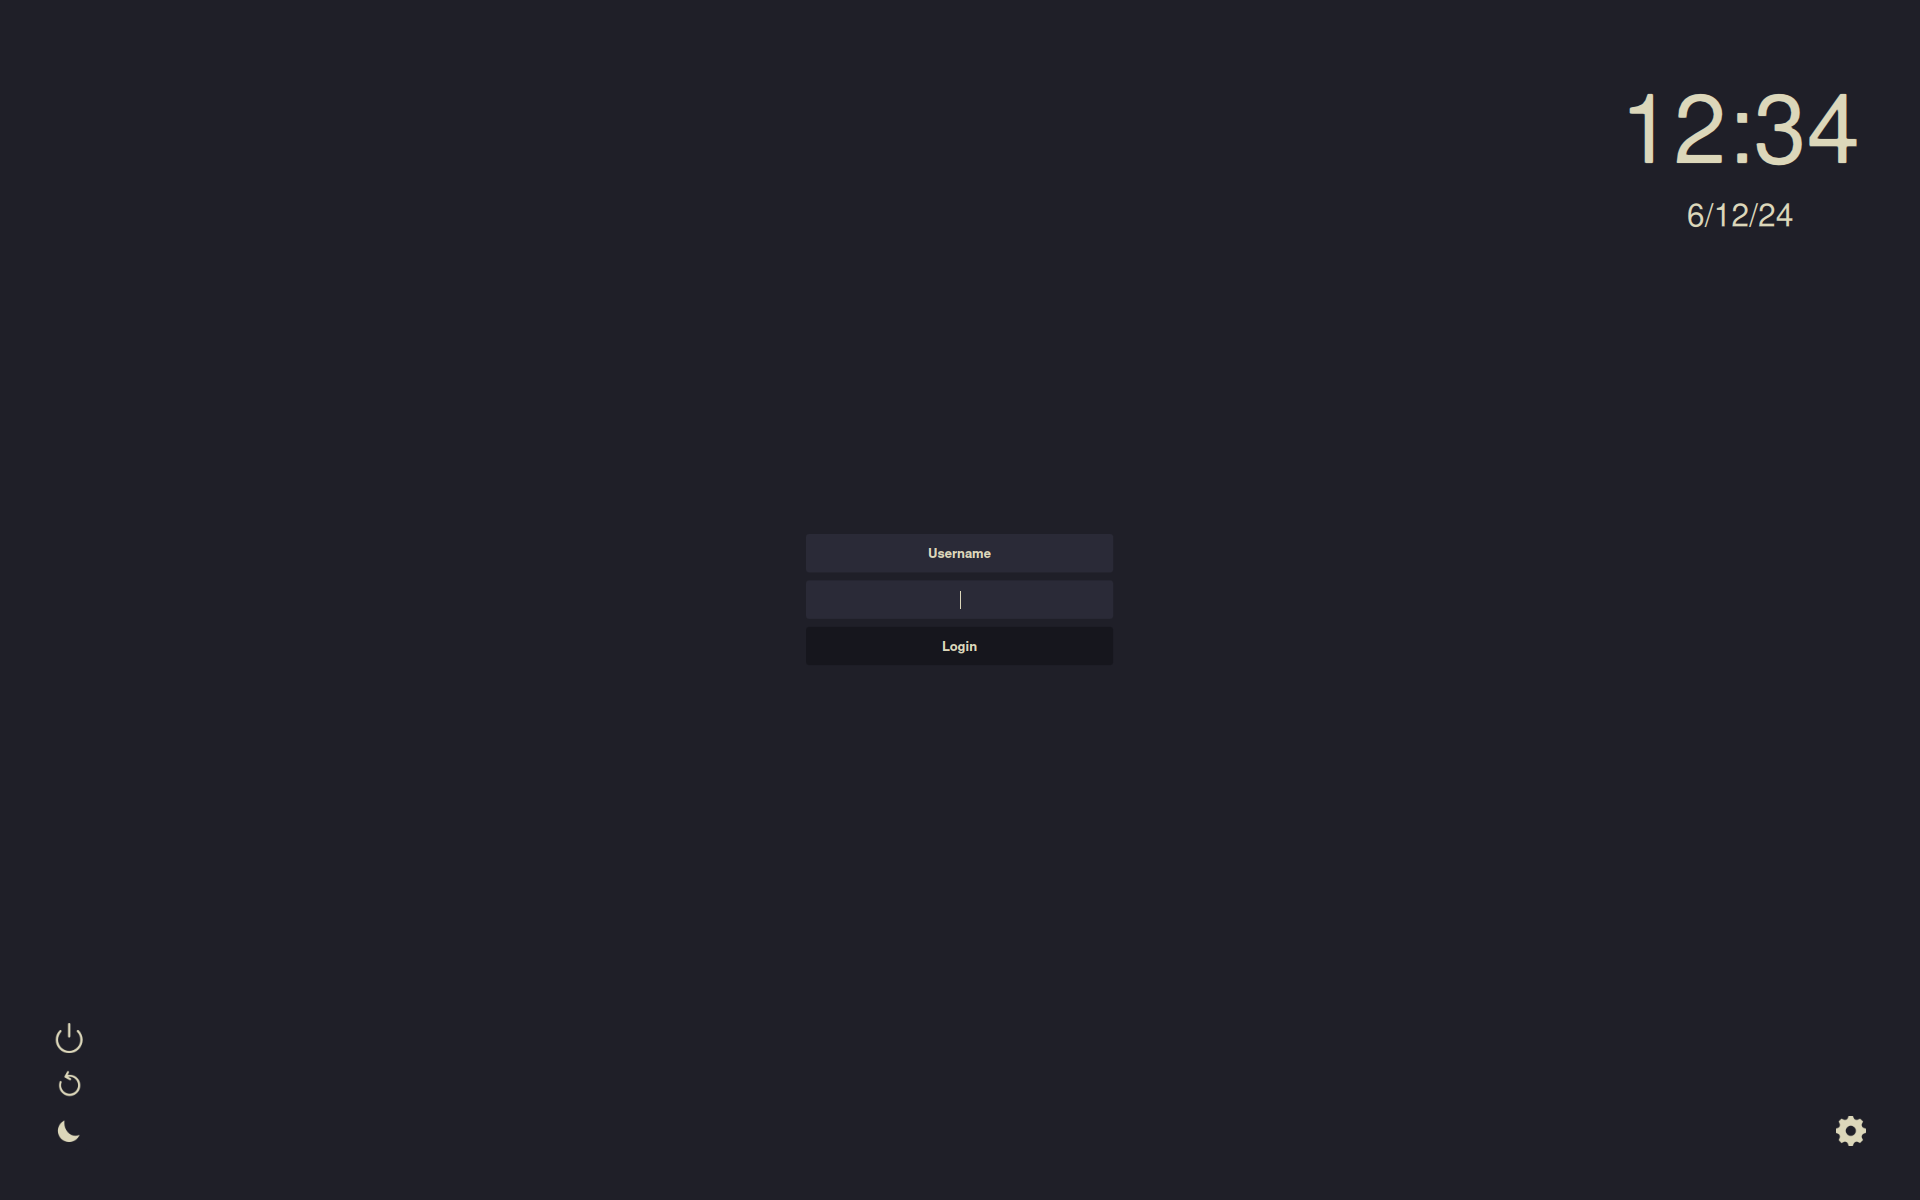
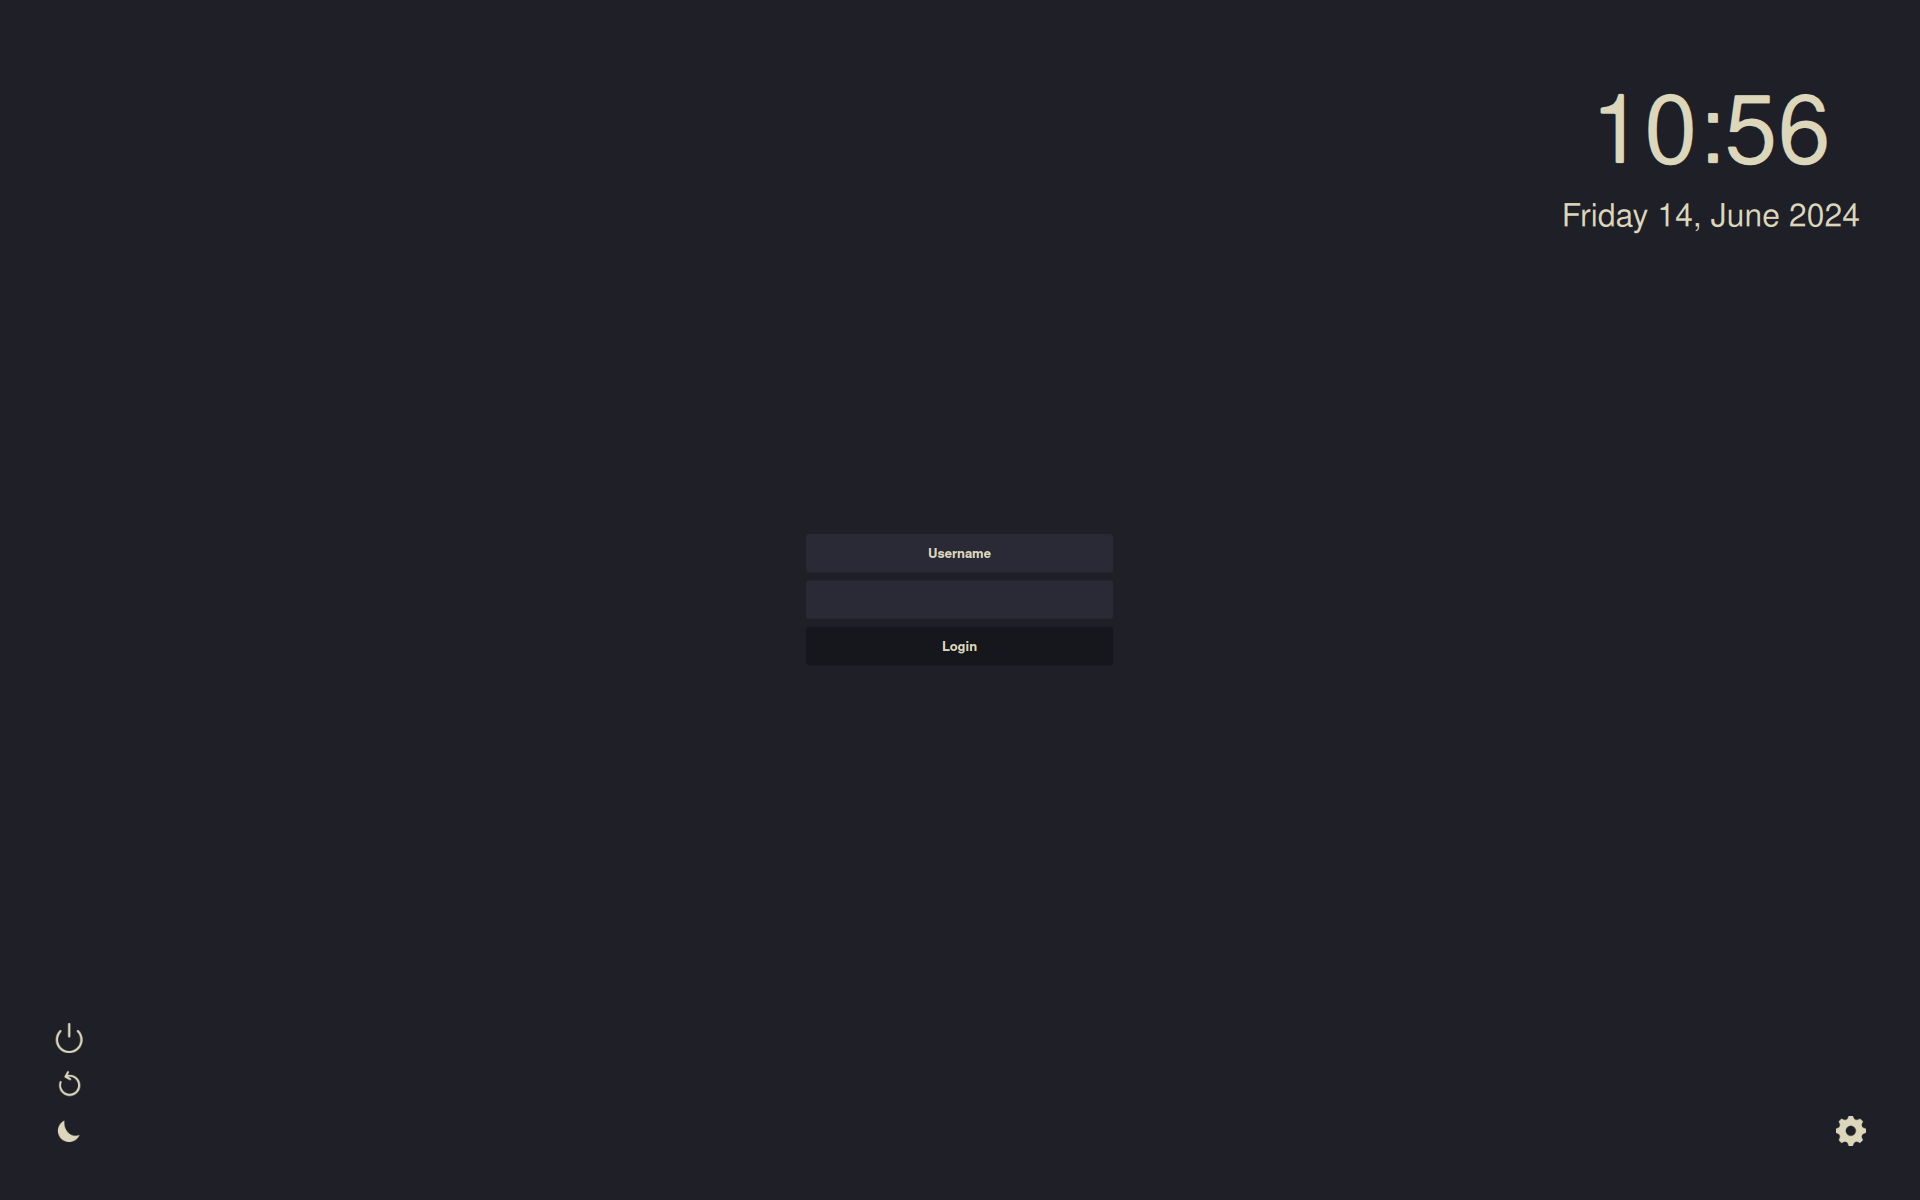
more stuff

Changed region(s): [[0.8125, 0.0617, 0.9688, 0.185]]

diff --git a/kanagawa-theme/sddm/Components/Clock.qml b/kanagawa-theme/sddm/Components/Clock.qml
@@ -1,14 +1,42 @@
-import QtQuick 2.15
-import SddmComponents 2.0
+import QtQuick 2.0
 
-Clock {
-  id: time
-  color: config.fujiWhite
-  timeFont.family: config.Font
-  dateFont.family: config.Font
-  anchors {
-    margins: 10
-    top: parent.top
-    right: parent.right
-  }
+Column {
+    id: container
+
+    property date dateTime: new Date()
+
+    Timer {
+        interval: 100; running: true; repeat: true;
+        onTriggered: container.dateTime = new Date()
+    }
+
+    Text {
+        id: time
+        anchors.horizontalCenter: parent.horizontalCenter
+
+        color: config.fujiWhite
+
+        text : Qt.formatTime(container.dateTime, "hh:mm")
+        
+        font.family: config.Font
+        font.pointSize: 72
+    }
+
+    Text {
+        id: date
+        anchors.horizontalCenter: parent.horizontalCenter
+
+        color: config.fujiWhite
+
+        text : Qt.formatDate(container.dateTime, "dddd dd, MMMM yyyy")
+        
+        font.family: config.Font
+        font.pointSize: 24
+    }
+
+    anchors {
+        margins: 10
+        top: parent.top
+        right: parent.right
+    }
 }
